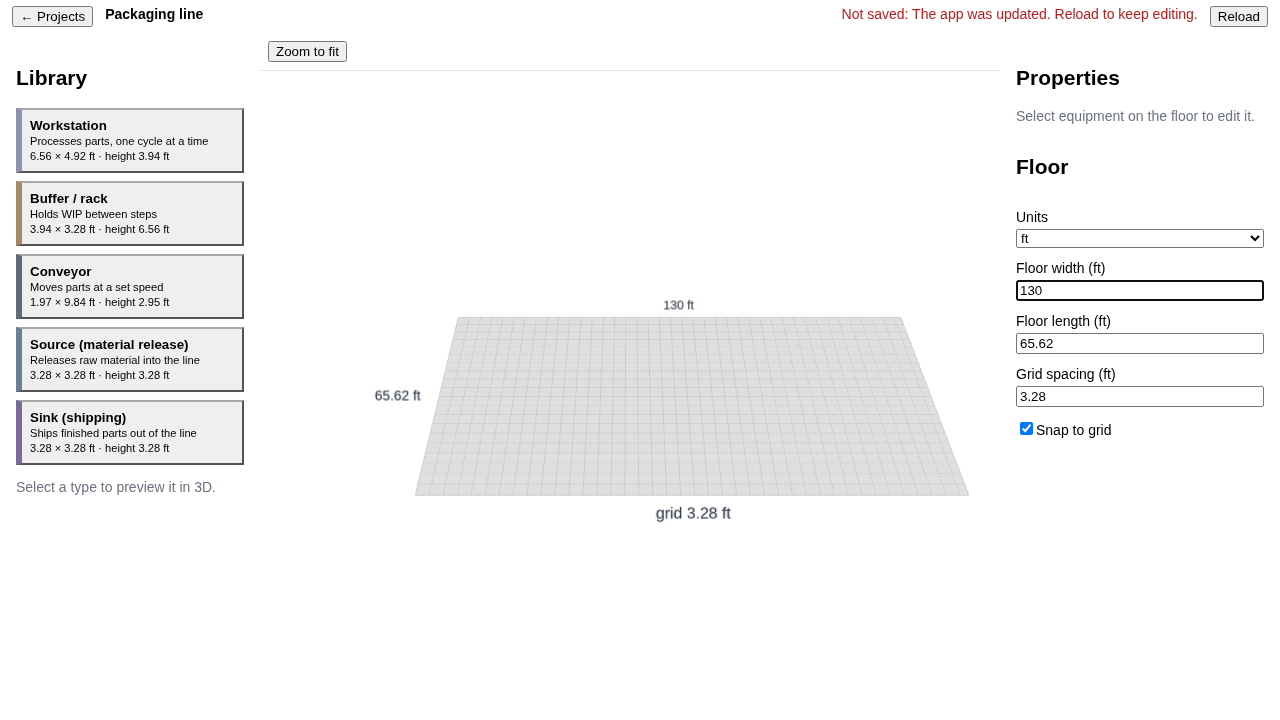
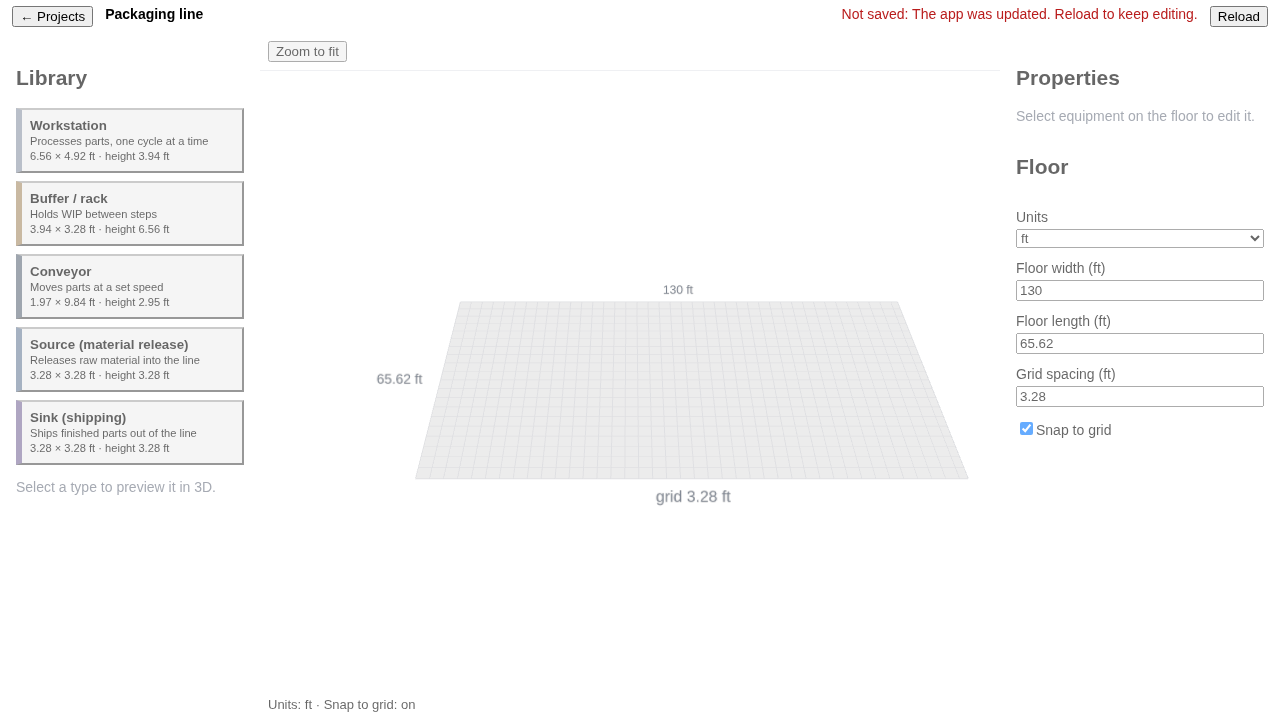
SC-1: fit camera once the canvas has a size, restore footer, lock editor after save stops

diff --git a/apps/web/src/projects/ProjectEditor.tsx b/apps/web/src/projects/ProjectEditor.tsx
@@ -67,13 +67,15 @@ export function ProjectEditor({ id, onClose }: { id: string; onClose: () => void
   }, [id]);
 
   // Closing the tab inside the debounce window would lose the last edits.
-  const unsaved = status !== 'saved';
+  const unsaved = status === 'unsaved' || status === 'saving' || status === 'error';
   useEffect(() => {
     if (!unsaved) return;
     const warn = (e: BeforeUnloadEvent) => e.preventDefault();
     window.addEventListener('beforeunload', warn);
     return () => window.removeEventListener('beforeunload', warn);
   }, [unsaved]);
+
+  const locked = status === 'stopped' || status === 'conflict';
 
   if (loadError)
     return (
@@ -83,7 +85,7 @@ export function ProjectEditor({ id, onClose }: { id: string; onClose: () => void
     );
   if (!ready) return <p style={{ font: '14px sans-serif', padding: 16 }}>Opening…</p>;
   return (
-    <div style={{ display: 'grid', gridTemplateRows: 'auto minmax(0, 1fr)', height: '100vh' }}>
+    <div style={{ display: 'grid', gridTemplateRows: 'auto minmax(0, 1fr)', height: '100%' }}>
       <header style={{ display: 'flex', gap: 12, padding: '6px 12px', font: '14px sans-serif' }}>
         <button onClick={onClose}>← Projects</button>
         <strong>{name}</strong>
@@ -105,7 +107,10 @@ export function ProjectEditor({ id, onClose }: { id: string; onClose: () => void
           </button>
         )}
       </header>
-      <Editor />
+      {/* After saving has stopped, further edits could never be saved, so lock the editor. */}
+      <div inert={locked} style={{ minHeight: 0, height: '100%', opacity: locked ? 0.6 : 1 }}>
+        <Editor readOnly={locked} />
+      </div>
     </div>
   );
 }

diff --git a/apps/web/src/layout/FloorScene.tsx b/apps/web/src/layout/FloorScene.tsx
@@ -5,7 +5,7 @@ import * as THREE from 'three';
 import { useEditorStore } from './editorStore';
 import { buildGridGeometry } from './gridLayout';
 import { EquipmentLayer, FloorInteraction, LibraryDropTarget } from './EquipmentLayer';
-import { fitCamera, labelLayout } from './cameraFit';
+import { aspectOf, fitCamera, labelLayout } from './cameraFit';
 import { formatLength } from './units';
 
 /** Floor plan (x, y) maps to three's ground plane (x, z); y is up. */
@@ -88,20 +88,24 @@ function CameraRig() {
     target: { set(...a: number[]): void };
     update(): void;
   } | null;
+  // The canvas can be 0×0 on mount (e.g. inside a shell that lays out later); fitting then would
+  // use a NaN aspect. `ready` flips once when it first has a size, which triggers the first fit.
+  const ready = useThree((s) => aspectOf(s.size) !== null);
   useEffect(() => {
-    const { size } = getThree();
+    const aspect = aspectOf(getThree().size);
+    if (aspect === null) return;
     const { floor } = useEditorStore.getState();
     const fovDeg = camera instanceof THREE.PerspectiveCamera ? camera.fov : 45;
     const fit = fitCamera({
       width: floor.width,
       length: floor.length,
-      aspect: size.width / size.height,
+      aspect,
       fovDeg,
     });
     camera.position.set(...fit.position);
     controls?.target.set(...fit.target);
     controls?.update();
-  }, [fitTick, camera, controls, getThree]);
+  }, [fitTick, ready, camera, controls, getThree]);
   return null;
 }
 

diff --git a/apps/web/src/Editor.tsx b/apps/web/src/Editor.tsx
@@ -8,13 +8,14 @@ import { PropertiesPanel } from './layout/PropertiesPanel';
 import { ViewToolbar } from './layout/ViewToolbar';
 import { useEditorStore } from './layout/editorStore';
 
-export function Editor() {
+export function Editor({ readOnly = false }: { readOnly?: boolean }) {
   const unit = useEditorStore((s) => s.unit);
   const snap = useEditorStore((s) => s.snapEnabled);
   const selectedId = useEditorStore((s) => s.selectedTypeId);
   const selectType = useEditorStore((s) => s.selectType);
   const selected = BASE_EQUIPMENT_TYPES.find((t) => t.id === selectedId);
   useEffect(() => {
+    if (readOnly) return;
     const onKey = (e: KeyboardEvent) => {
       const t = e.target;
       if (t instanceof HTMLElement && /^(INPUT|SELECT|TEXTAREA)$/.test(t.tagName)) return;
@@ -23,14 +24,14 @@ export function Editor() {
     };
     window.addEventListener('keydown', onKey);
     return () => window.removeEventListener('keydown', onKey);
-  }, []);
+  }, [readOnly]);
   // Wireframe 1: library left, viewport centre, properties right.
   return (
     <div
       style={{
         display: 'grid',
         gridTemplateColumns: '260px 1fr 280px',
-        height: '100vh',
+        height: '100%',
         minHeight: 0,
       }}
     >

diff --git a/apps/web/src/layout/cameraFit.ts b/apps/web/src/layout/cameraFit.ts
@@ -73,6 +73,7 @@ export function fitCamera(opts: FloorSize & { aspect: number; fovDeg: number }):
 }
 
 /** Canvas aspect for fitCamera, or null while the canvas has no usable size (0×0, NaN). */
-export function aspectOf(_size: { width: number; height: number }): number | null {
-  return 0;
+export function aspectOf(size: { width: number; height: number }): number | null {
+  const aspect = size.width / size.height;
+  return size.width > 0 && size.height > 0 && Number.isFinite(aspect) ? aspect : null;
 }

diff --git a/apps/web/index.html b/apps/web/index.html
@@ -6,6 +6,11 @@
     <link rel="icon" href="data:," />
     <title>Flow Simulator</title>
     <style>
+      html,
+      body,
+      #root {
+        height: 100%;
+      }
       body {
         margin: 0;
       }
